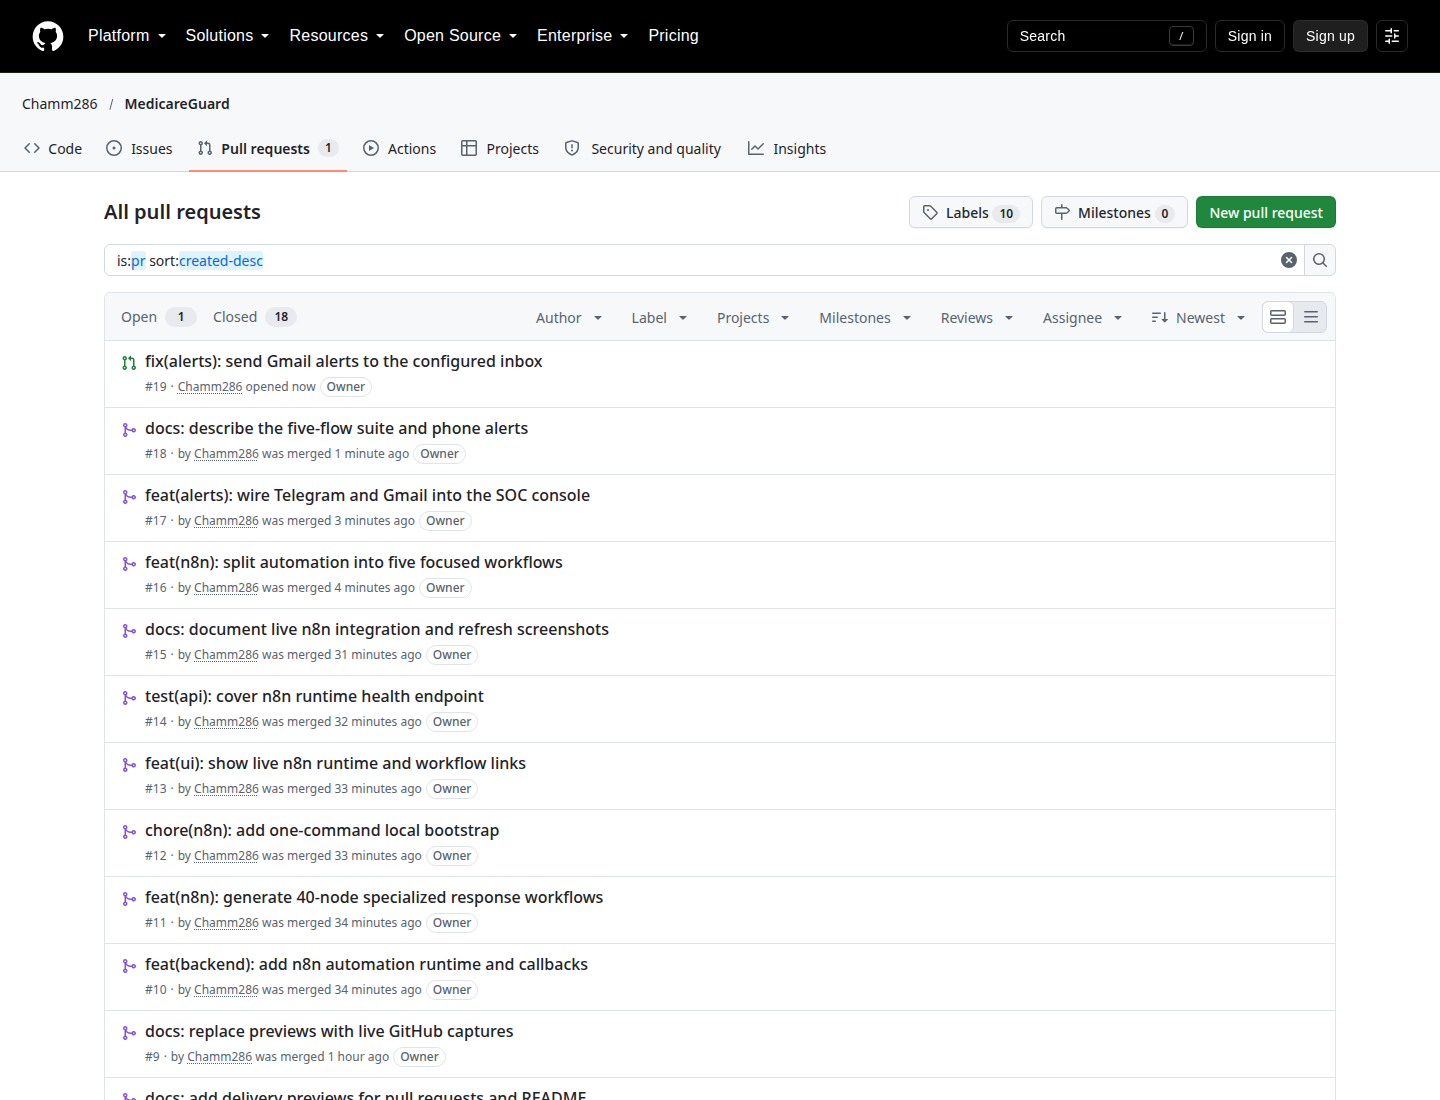
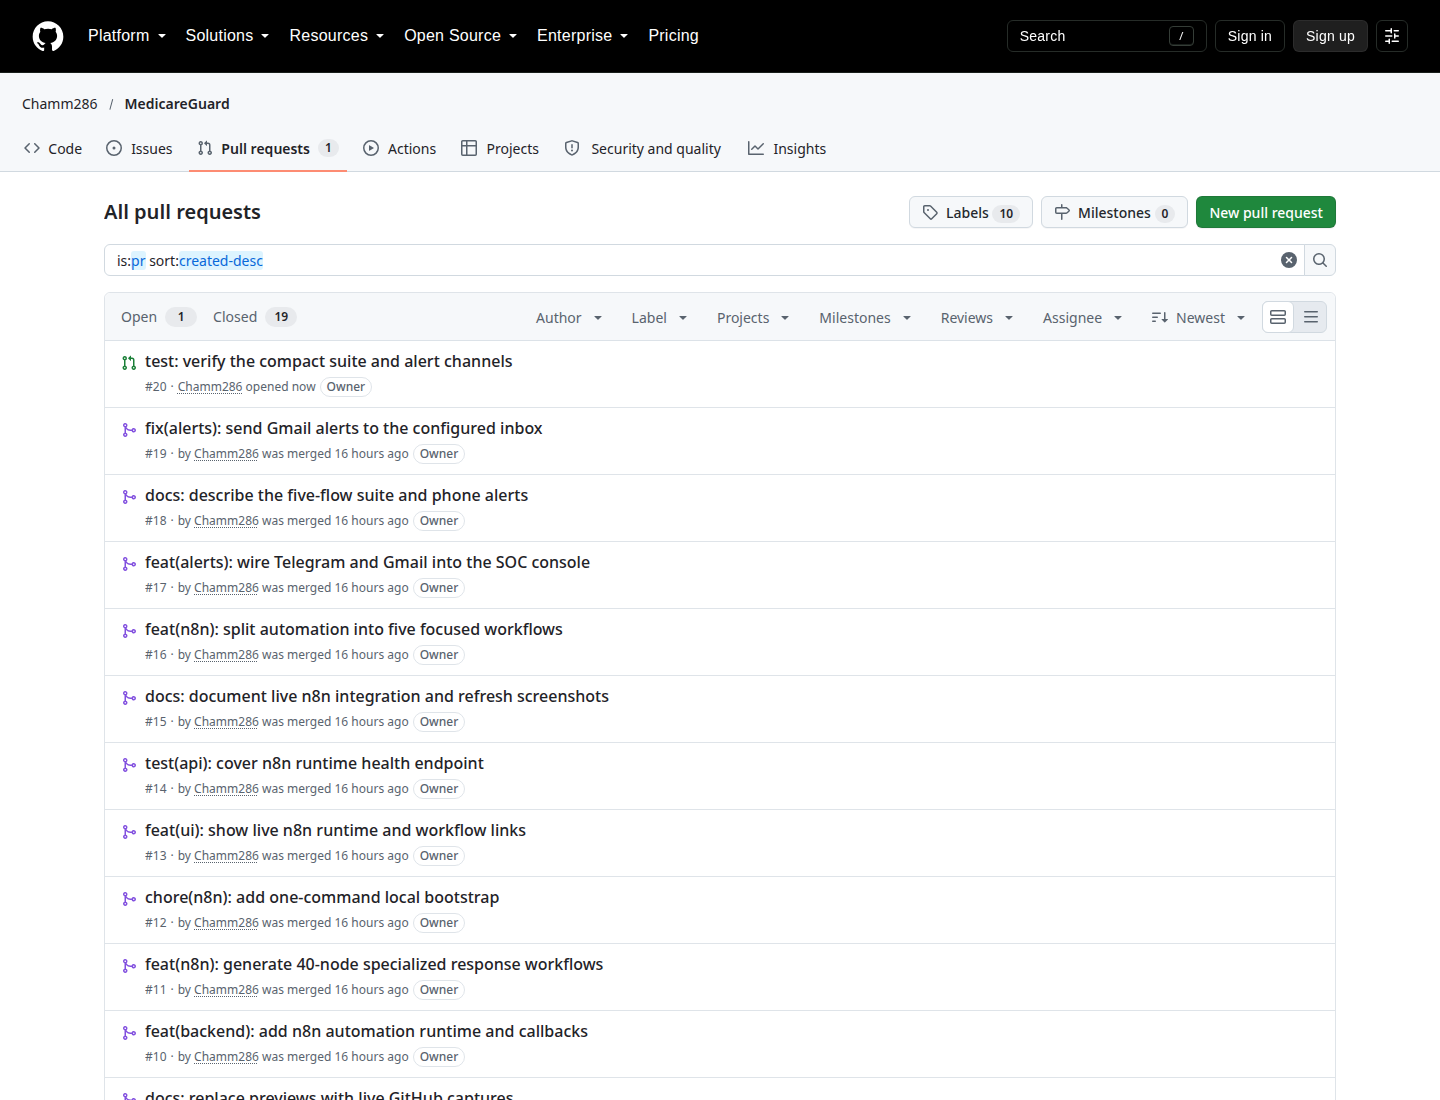
test: verify the compact suite and alert channels (#20)
* test: verify the compact suite and alert channels

Assert the API exposes five workflows, 97 nodes and the expected per-flow node counts. Add scripts/check-alerts.sh to validate Telegram and Gmail credentials, with an opt-in --send delivery test.

* docs: refresh pull request history capture

Changed region(s): [[0.0938, 0.3709, 0.4375, 1.0], [0.0938, 0.3091, 0.375, 0.34]]

diff --git a/backend/scripts/smoke-test.js b/backend/scripts/smoke-test.js
@@ -97,6 +97,33 @@ const run = async () => {
   });
   results.push({ name: "POST /ai/chat", status: chat.status, ok: chat.ok });
 
+  const suiteResponse = await request("/automation/workflows", { headers });
+  const suite = suiteResponse.body?.data || [];
+  const suiteSummary = suiteResponse.body?.summary || {};
+  const expectedNodes = {
+    "ransomware-containment": 20,
+    "phishing-triage": 20,
+    "vulnerability-sla": 20,
+    "compliance-evidence": 20,
+    "live-attack-monitor": 17,
+  };
+  const actualNodes = Object.fromEntries(suite.map((workflow) => [workflow.id, workflow.nodeCount]));
+  results.push({
+    name: "automation suite exposes 5 workflows",
+    status: suiteResponse.status,
+    ok: suiteResponse.ok && suite.length === 5 && suiteSummary.active === 5,
+  });
+  results.push({
+    name: "automation suite totals 97 nodes",
+    status: suiteResponse.status,
+    ok: suiteResponse.ok && suiteSummary.nodes === 97,
+  });
+  results.push({
+    name: "automation node counts match the compact design",
+    status: suiteResponse.status,
+    ok: suiteResponse.ok && Object.entries(expectedNodes).every(([id, count]) => actualNodes[id] === count),
+  });
+
   const meta = await request("/_meta/endpoints", { headers });
   const total = meta.body.total;
 

diff --git a/n8n/README.md b/n8n/README.md
@@ -91,6 +91,16 @@ The four scenario flows check `Notifications Ready?` before their alert branch. 
 
 Gmail requires an **App Password**, not the normal Google account password. Enable 2-Step Verification, create an App Password for Mail, and use that value for `MG_SMTP_PASSWORD`.
 
+### Verify channels
+
+```bash
+# Reads ~/n8n-safe/n8n.env by default; override with N8N_ENV_FILE=/path/to/env
+bash scripts/check-alerts.sh          # login/connectivity only
+bash scripts/check-alerts.sh --send   # send a Telegram and Gmail test alert
+```
+
+The check never prints the token or app password. A successful run reports the Telegram bot username and the Gmail sender. Use `--send` once to confirm delivery to the phone and inbox.
+
 ## Environment variables
 
 | Variable | Purpose |

diff --git a/README.md b/README.md
@@ -223,6 +223,13 @@ curl -X POST http://localhost:4000/api/automation/workflows/phishing-triage/run 
   -H "Authorization: Bearer $MG_API_TOKEN"
 ```
 
+Verify the phone and inbox channels after adding credentials:
+
+```bash
+bash scripts/check-alerts.sh          # authenticate only
+bash scripts/check-alerts.sh --send   # send Telegram + Gmail test alerts
+```
+
 Full details, credential overrides and verification commands are in [`n8n/README.md`](n8n/README.md).
 
 ## API
